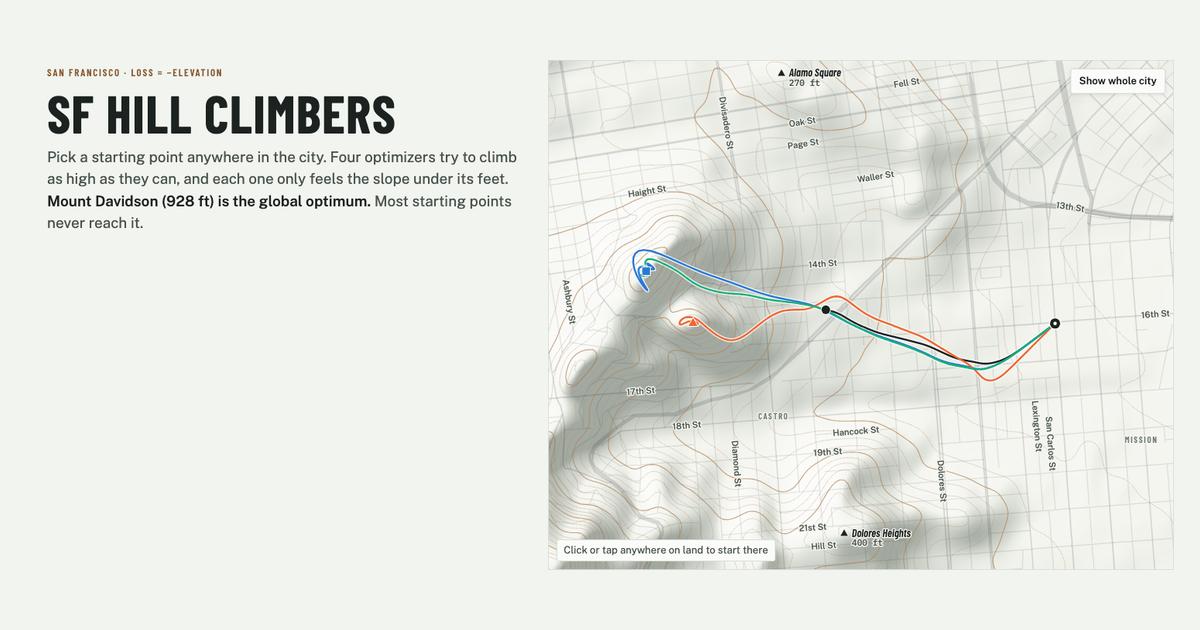
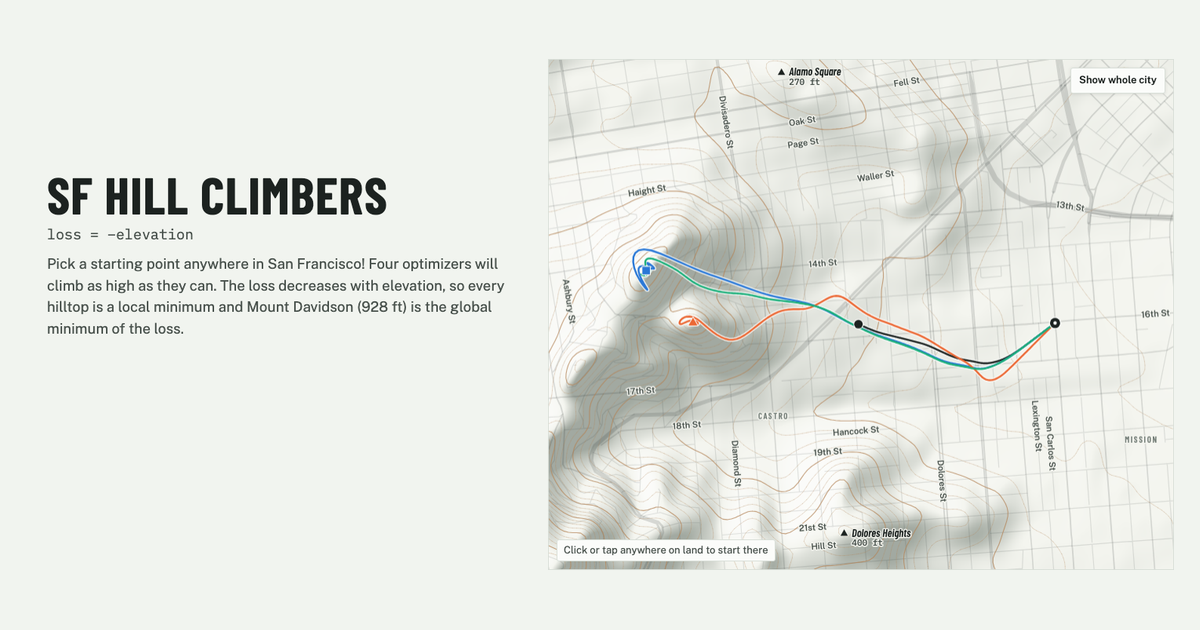
Redraw the link-preview card on every deploy
The preview image still showed the old eyebrow line and intro wording.
tools/make_preview.py now builds the 1200x630 card from the built page
(title block next to the race map), and the workflow runs it on every
deploy so wording edits made on GitHub show up in link previews too.
The og:image URL carries ?v=<hash> so chat apps refetch a changed image.

diff --git a/tools/make_preview.py b/tools/make_preview.py
@@ -1,0 +1,88 @@
+"""Render the 1200x630 link-preview card from the built page.
+
+Run after build.py:  python3 tools/make_preview.py   (needs Chrome and Pillow)
+
+Screenshots docs/index.html once the opening race has run, puts the title block
+next to the race map, writes docs/preview.png and web/preview.png, and bumps the
+?v= on the og:image link so chat apps fetch the new image instead of a cached one.
+The publish workflow runs this on every deploy, so the card follows wording edits.
+"""
+import hashlib
+import json
+import pathlib
+import re
+import shutil
+import subprocess
+import sys
+import tempfile
+
+from PIL import Image
+
+ROOT = pathlib.Path(__file__).resolve().parent.parent
+PAGE = ROOT / "docs" / "index.html"
+CHROMES = ["/Applications/Google Chrome.app/Contents/MacOS/Google Chrome",
+           "google-chrome", "google-chrome-stable", "chromium", "chromium-browser"]
+WINDOW = "1200,1300"
+CARD_W, CARD_H = 1200, 630
+
+# Reports where the title block and the race map sit, via the page title.
+PROBE = """<script>
+setTimeout(() => {
+  const r = (sel) => { const b = document.querySelector(sel).getBoundingClientRect();
+    return [b.left, b.top + scrollY, b.right, b.bottom + scrollY].map(Math.round); };
+  document.title = "RECTS " + JSON.stringify({ head: r(".masthead"), map: r("#race-wrap") });
+}, 3000);
+</script></body>"""
+
+
+def chrome():
+    for c in CHROMES:
+        path = shutil.which(c) or (c if pathlib.Path(c).exists() else None)
+        if path:
+            return path
+    sys.exit("make_preview: Chrome not found")
+
+
+def run_chrome(exe, profile, *args):
+    return subprocess.run([exe, "--headless=new", "--disable-gpu", "--hide-scrollbars", "--no-sandbox",
+                           f"--window-size={WINDOW}", f"--user-data-dir={profile}", *args],
+                          capture_output=True, text=True, timeout=180).stdout
+
+
+def main():
+    exe = chrome()
+    with tempfile.TemporaryDirectory() as tmp:
+        tmp = pathlib.Path(tmp)
+        probe = tmp / "probe.html"
+        probe.write_text(PAGE.read_text().replace("</body>", PROBE, 1))
+        dom = run_chrome(exe, tmp / "p1", "--virtual-time-budget=6000", "--dump-dom", probe.as_uri())
+        m = re.search(r"<title>RECTS (.*?)</title>", dom)
+        if not m:
+            sys.exit("make_preview: could not locate the title block and map")
+        rects = json.loads(m.group(1).replace("&quot;", '"'))
+        shot = tmp / "shot.png"
+        run_chrome(exe, tmp / "p2", "--virtual-time-budget=9000", f"--screenshot={shot}", PAGE.as_uri())
+        im = Image.open(shot).convert("RGB")
+
+    card = Image.new("RGB", (CARD_W, CARD_H), im.getpixel((5, 5)))
+    x0, y0, x1, y1 = rects["head"]
+    head = im.crop((x0 - 4, y0 - 4, x1 + 4, y1 + 4))
+    head = head.resize((480, round(head.height * 480 / head.width)), Image.LANCZOS)
+    card.paste(head, (44, max(40, (CARD_H - head.height) // 2 - 60)))
+    x0, y0, x1, y1 = rects["map"]
+    mp = im.crop((x0, y0, x1, y1))
+    mp = mp.resize((626, round(mp.height * 626 / mp.width)), Image.LANCZOS)
+    if mp.height > CARD_H - 40:
+        mp = mp.crop((0, (mp.height - (CARD_H - 40)) // 2, 626, (mp.height + CARD_H - 40) // 2))
+    card.paste(mp, (548, (CARD_H - mp.height) // 2))
+
+    for out in (ROOT / "docs" / "preview.png", ROOT / "web" / "preview.png"):
+        card.save(out, optimize=True)
+    version = hashlib.sha1((ROOT / "docs" / "preview.png").read_bytes()).hexdigest()[:8]
+    html = re.sub(r'preview\.png(\?v=[0-9a-f]+)?"', f'preview.png?v={version}"', PAGE.read_text())
+    PAGE.write_text(html)
+    print(f"wrote docs/preview.png and web/preview.png (v={version})")
+
+
+if __name__ == "__main__":
+    main()

diff --git a/build.py b/build.py
@@ -2,6 +2,7 @@
 
 Run:  python3 build.py   ->  docs/ (the GitHub Pages site) and dist/sf-hill-climbers.html
 """
+import hashlib
 import pathlib
 import shutil
 
@@ -30,12 +31,14 @@ def main():
     # A standalone copy for ordinary web hosting: the artifact viewer normally
     # supplies the document shell and this small reset.
     head, body = page.split('<div class="page">', 1)
+    # ?v= changes with the image, so chat apps fetch a new preview instead of a cached one.
+    version = hashlib.sha1((WEB / "preview.png").read_bytes()).hexdigest()[:8]
     site = (
         '<!doctype html>\n<html lang="en">\n<head>\n<meta charset="utf-8">\n'
         '<meta name="viewport" content="width=device-width, initial-scale=1, viewport-fit=cover">\n'
         '<meta property="og:title" content="SF Hill Climbers">\n'
         f'<meta property="og:url" content="{SITE_URL}">\n'
-        f'<meta property="og:image" content="{SITE_URL}preview.png">\n'
+        f'<meta property="og:image" content="{SITE_URL}preview.png?v={version}">\n'
         '<meta property="og:image:width" content="1200">\n<meta property="og:image:height" content="630">\n'
         '<meta name="twitter:card" content="summary_large_image">\n'
         '<meta property="og:description" content="Gradient descent, Momentum, Adam and Muon race uphill across '

diff --git a/README.md b/README.md
@@ -36,11 +36,11 @@ node tests/core.test.js && node tests/geocode.test.js
 python3 build.py                              # -> docs/index.html and dist/sf-hill-climbers.html
 ```
 
-`docs/` is build output (gitignored): `docs/index.html` is the complete page, with `docs/preview.png` copied from `web/preview.png` for link previews. Open it directly to view the page locally. `dist/sf-hill-climbers.html` is the same page without `<html>`/`<head>` wrappers, for publishing as a Claude artifact.
+`docs/` is build output (gitignored): `docs/index.html` is the complete page, and `docs/preview.png` is the link-preview card. `tools/make_preview.py` redraws that card from the built page (it needs Chrome and Pillow); the workflow runs it on every deploy, and `web/preview.png` is the fallback copy. Open it directly to view the page locally. `dist/sf-hill-climbers.html` is the same page without `<html>`/`<head>` wrappers, for publishing as a Claude artifact.
 
 ## Publishing
 
-Every push to `main` publishes the site: `.github/workflows/publish.yml` runs both test suites, runs `build.py`, and deploys `docs/` to GitHub Pages (https://www.kaleybrauer.com/sf-hill-climbers/). That includes edits made in GitHub's web editor, so to fix wording, edit `web/index.html` on GitHub and the site updates a minute or two later. If a test fails, nothing is deployed and the current site stays up; the Actions tab shows each run.
+Every push to `main` publishes the site: `.github/workflows/publish.yml` runs both test suites, runs `build.py`, redraws the link-preview card, and deploys `docs/` to GitHub Pages (https://www.kaleybrauer.com/sf-hill-climbers/). That includes edits made in GitHub's web editor, so to fix wording, edit `web/index.html` on GitHub and the site updates a minute or two later. If a test fails, nothing is deployed and the current site stays up; the Actions tab shows each run.
 
 ## Useful tools
 
